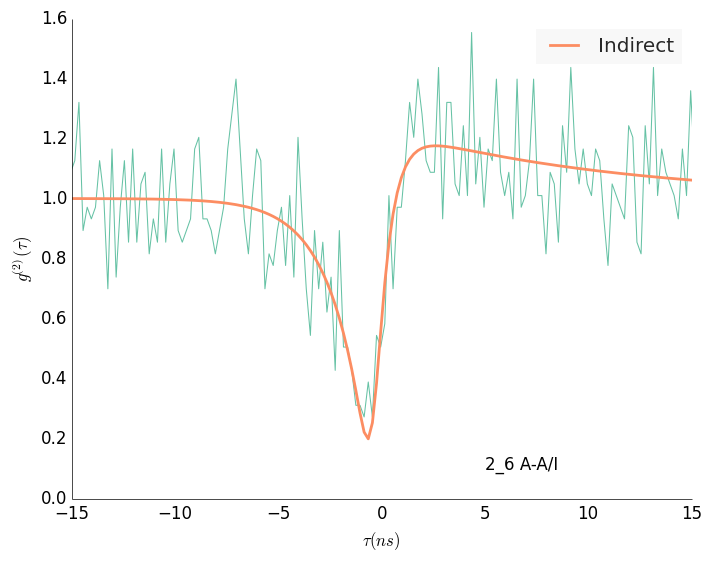
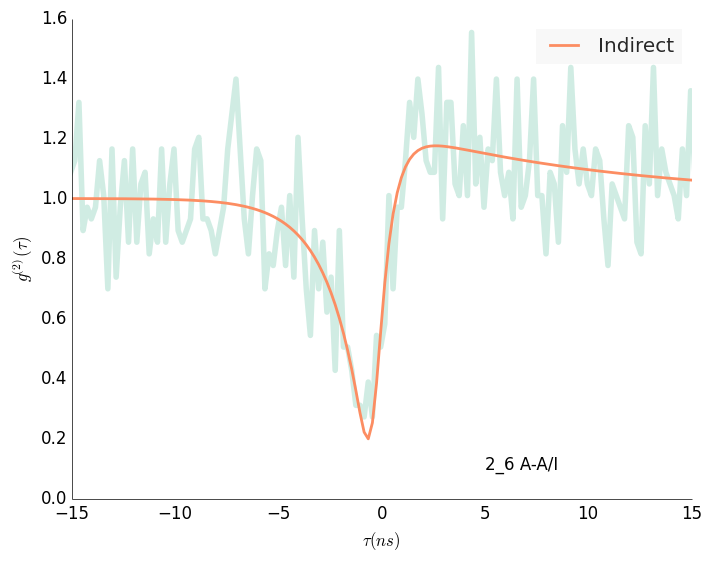
labelled the peak 7 transitions as D/I/A

Changed region(s): [[0.5268, 0.0606, 0.9915, 0.6364], [0.093, 0.1212, 0.5268, 0.7576]]

diff --git a/corrs_all.py b/corrs_all.py
@@ -12,8 +12,9 @@ np.seterr(all="ignore")
 
 
 names = ['1_3', '3_5', '2_3', '1_6', '2_6', '4_5', '1_7', '2_7', '3_7', '5_7', '6_7']
-states = ['XXT5', 'XXT1', 'XP', 'XX', 'X', 'XT5', '', '', '', '', '', '']
-labels = ['1_3 A-I', '3_5 A-I', '2_3 A-D', '1_6 A-D', '2_6 A-A/I', '4_5 A-D', '', '', '', '', '']
+labels = ['1_3 A-I', '3_5 A-I', '2_3 A-D', '1_6 A-D', '2_6 A-A/I', '4_5 A-D',
+          '1_7', '2_7', '3_7', '5_7', '6_7']
+
 zeropoints = [171.6, 171.0, 171.5, 170.5, 171.1, 171.2, 171.2, 171.2, 171.2, 171.2, 171.2]
 
 
@@ -79,8 +80,8 @@ def main():
 
         # just plotting stuff now
         plt.close()
-        ppl.plot(time, counts_n, alpha=0.5)
-        ppl.plot(time, g2.g2c_direct(time, *poptd), label="Direct", linewidth=4)
+        ppl.plot(time, counts_n, linewidth=4, alpha=0.3)
+        ppl.plot(time, g2.g2c_direct(time, *poptd), label="Direct", linewidth=5)
         ppl.plot(time, g2.g2c_indirect(time, *popti), label="Indirect", linewidth=2)
         ppl.plot(time, g2.g2c_antidirect(time, *popta), label="Antidirect", linewidth=2)
 

diff --git a/corrs_specific.py b/corrs_specific.py
@@ -17,7 +17,8 @@ types = ['indirect', 'indirect', 'direct', 'direct',
          'antidirect', 'antidirect', 'antidirect']
 
 names = ['1_3', '3_5', '2_3', '1_6', '2_6', '4_5', '1_7', '2_7', '3_7', '5_7', '6_7']
-labels = ['1_3 A-I', '3_5 A-I', '2_3 A-D', '1_6 A-D', '2_6 A-A/I', '4_5 A-D', '1_7', '2_7', '3_7', '5_7', '6_7']
+labels = ['1_3 A-I', '3_5 A-I', '2_3 A-D', '1_6 A-D', '2_6 A-A/I', '4_5 A-D',
+          '1_7 A-D', '2_7 A-D', '3_7 A-A/I', '5_7 A-A', '6_7 A-A']
 
 zeropoints = [171.6, 171.0, 171.5, 170.5, 171.1, 171.2, 171.2, 171.2, 171.2, 171.2, 171.2]
 
@@ -106,7 +107,7 @@ def main():
 
         # just plotting stuff now
         plt.close()
-        ppl.plot(time, counts_n)
+        ppl.plot(time, counts_n, linewidth=4, alpha=0.3)
         if type == "direct":
             ppl.plot(time, g2.g2c_direct(time, *poptd), label="Direct", linewidth=2)
         elif type == "indirect":

diff --git a/output/fit.md b/output/fit.md
@@ -89,7 +89,7 @@
 	l1: 34.592 +- 0.118
 	l2: 0.357 +- 826.648
 
-# 
+# 1_7
 ![](corrs1_7.png)
 ## Direct
 	c1: 3.609 +- 0.344
@@ -104,7 +104,7 @@
 	l1: 34.267 +- 0.750
 	l2: 0.876 +- 884.607
 
-# 
+# 2_7
 ![](corrs2_7.png)
 ## Direct
 	c1: 0.287 +- 0.077
@@ -119,7 +119,7 @@
 	l1: 33.230 +- 0.305
 	l2: 0.906 +- 317.574
 
-# 
+# 3_7
 ![](corrs3_7.png)
 ## Direct
 	c1: -0.940 +- 0.306
@@ -134,7 +134,7 @@
 	l1: 1.076 +- 0.733
 	l2: 1.645 +- 0.335
 
-# 
+# 5_7
 ![](corrs5_7.png)
 ## Direct
 	c1: -1.162 +- 0.164
@@ -149,7 +149,7 @@
 	l1: 0.352 +- 1.633
 	l2: 2.235 +- 0.058
 
-# 
+# 6_7
 ![](corrs6_7.png)
 ## Direct
 	c1: -0.849 +- 0.310
